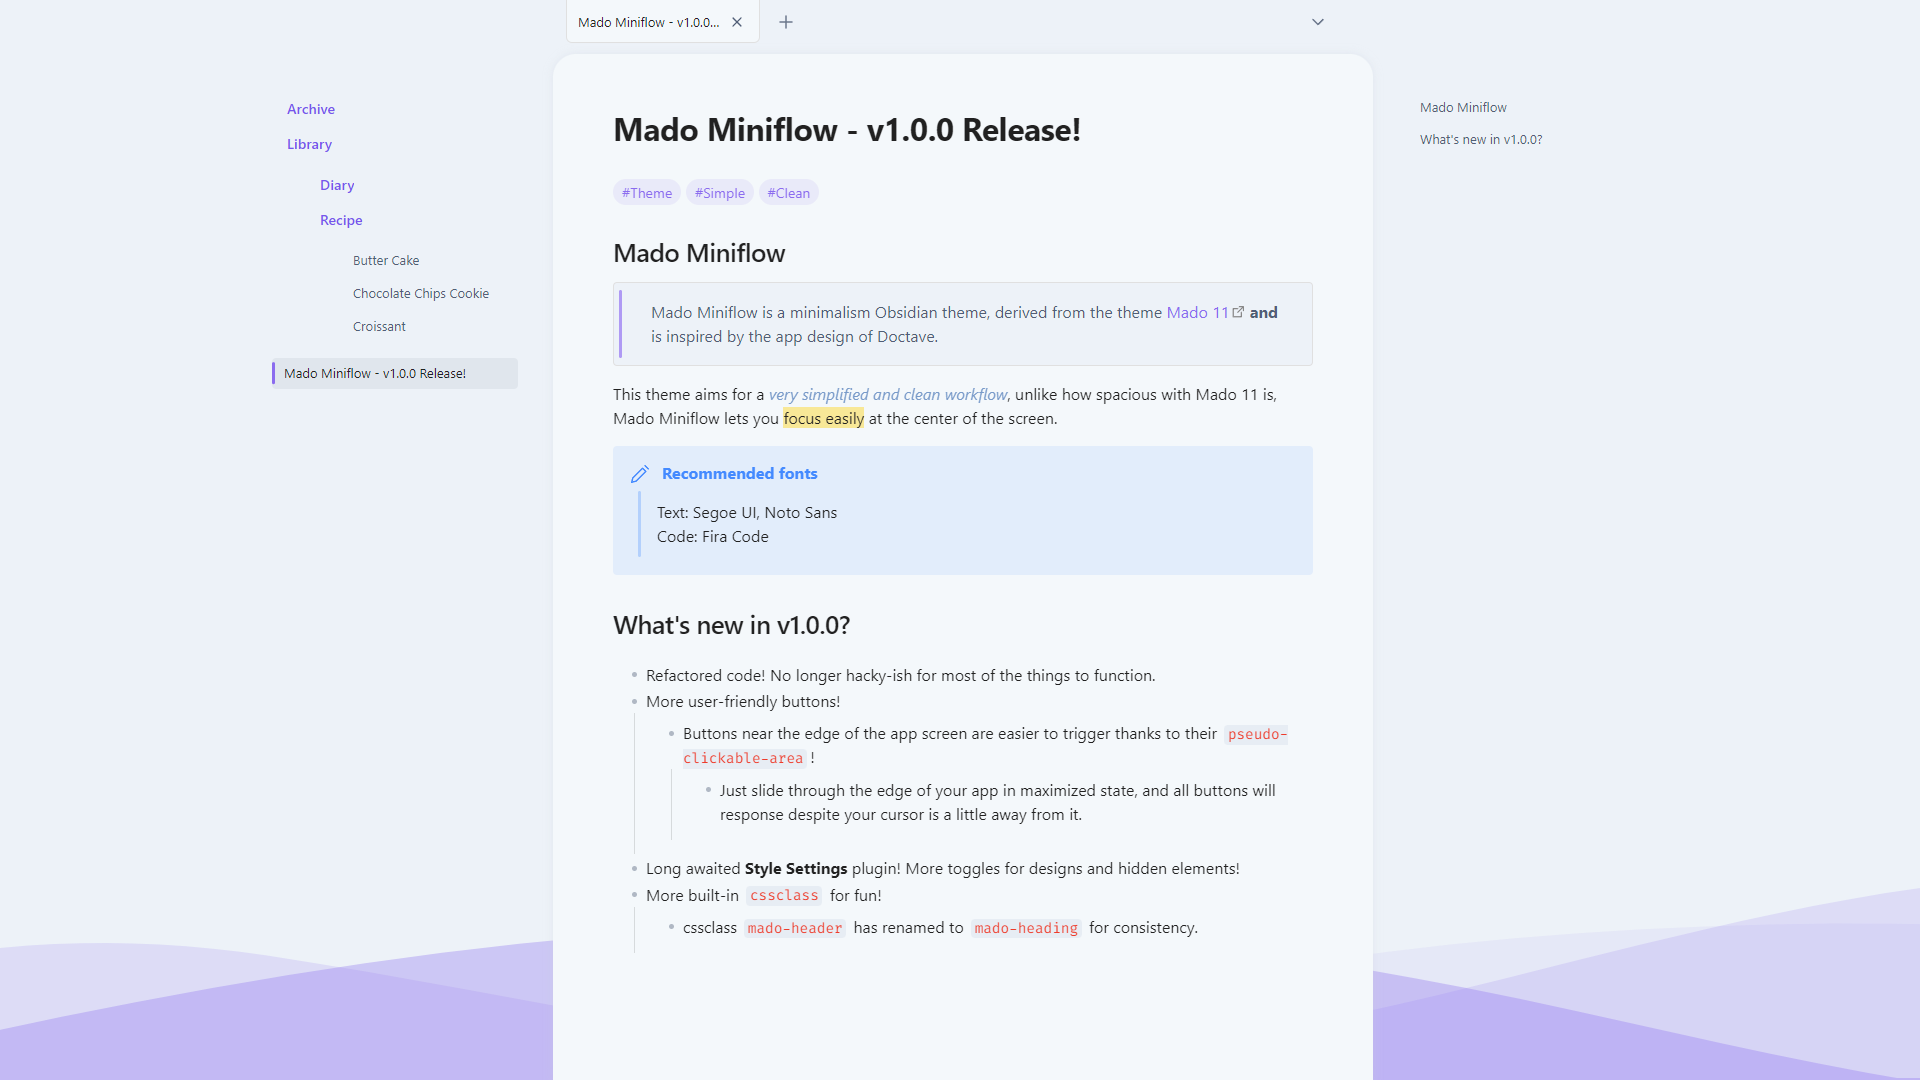
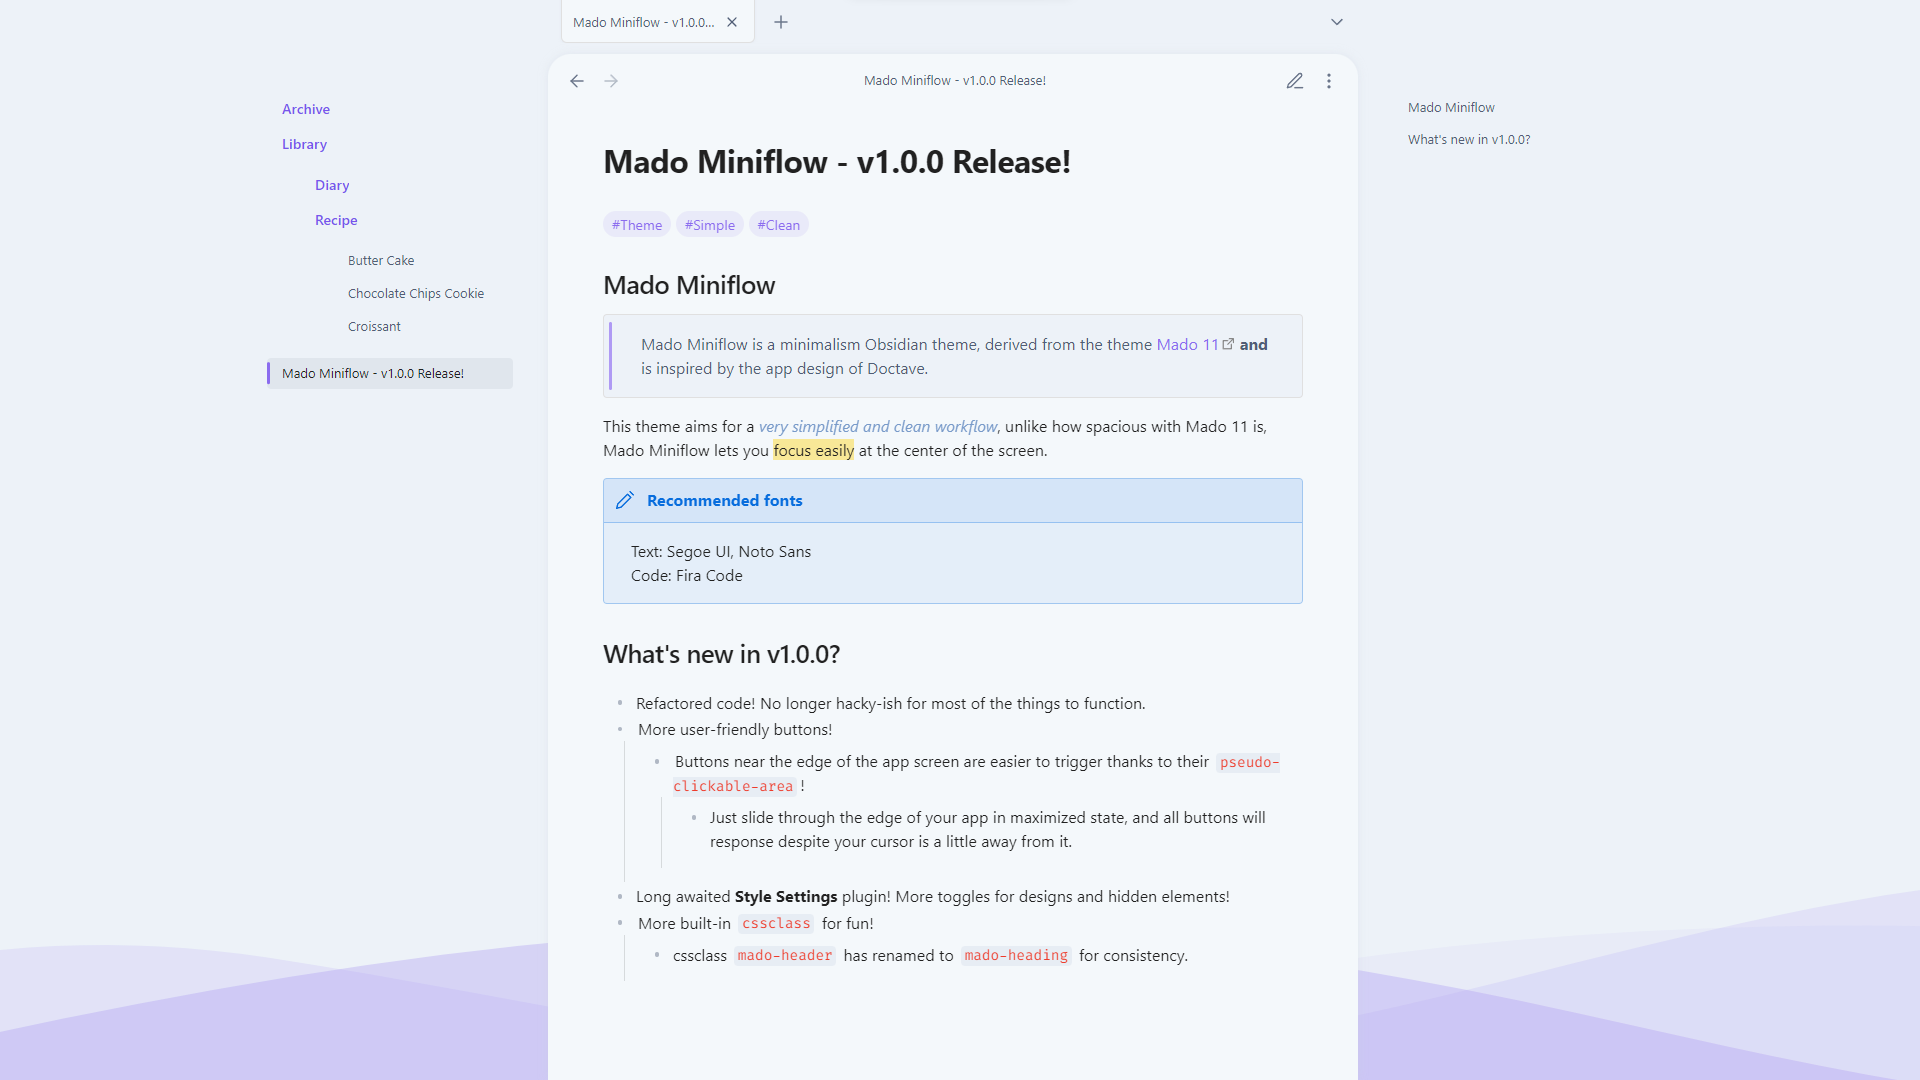
v1.2.0 callout redesign

diff --git a/theme.css b/theme.css
@@ -32,8 +32,9 @@ body{
 	--icon-m:20px;
 	--icon-l:20px;	
 	--divider-width:4px;
-	--callout-padding:17px 17px;
-	--callout-content-padding:0 12px 0 27px;
+	--callout-padding:0px;
+	--callout-title-padding:11px;
+	--callout-content-padding:0 11px 0 27px;
 	
 	--embed-padding:13px 23px;
 	--list-indent:37px;
@@ -1148,8 +1149,12 @@ input[type=checkbox]:checked:after{
 
 
 /* Markdown Listings */
-ul,ol{
+ul, ol{
 	padding:7px 0 13px;
+	margin-top:7px;
+}
+ul ul, ol ol{
+	margin-top:0;
 }
 
 /* Only append indent if it's from a list */
@@ -1275,26 +1280,32 @@ ul > li.task-list-item.is-checked *,
 
 
 /* Markdown Callout */
-.callout:not(.is-collapsed){
-	padding-bottom:11px;
+
+.callout{
+	border:1px solid rgba(var(--callout-color), 0.3);
+    background-color: rgba(var(--callout-color), 0.07);
 }
 .callout-title{
 	gap:var(--size-4-3);
+    align-items:center;
+    background-color:rgba(var(--callout-color), 0.07);
+	border-bottom:1px solid transparent;
+	transition:border 0.3s;
 }
-.callout-content{
-	position:relative;
-}
-.callout-content:before{
-	content:"";
-	position:absolute;
-	left:8px;
-	top:7px;
-	width:3px;
-	height:calc(100% - 14px);
-	background:rgba(var(--callout-color),0.3);
-	border-radius:var(--button-radius);
+.callout-icon,
+.callout-fold{
+	margin:0;
+	align-self:center;
 }
 
+/* only apply border if callout is not collapsed */
+.callout:not(.is-collapsed)>.callout-title:has(+.callout-content){
+	border-bottom:1px solid rgba(var(--callout-color), 0.3);
+}
+
+.markdown-source-view.mod-cm6 .callout .callout{
+	margin:1em 0;
+}
 
 
 
@@ -1326,6 +1337,29 @@ ul > li.task-list-item.is-checked *,
 	border-radius:var(--button-radius);
 	transition:background 0.1s;
 }
+.mado-heading .markdown-preview-section>div.mod-header>*{
+	padding:23px 23px 0;
+	border:none;
+}
+.mado-heading .markdown-preview-section>div:not(.is-collapsed)>h1{
+	border-bottom-left-radius:0;
+	border-bottom-right-radius:0;
+	border-bottom:none;
+}
+.mado-heading .markdown-preview-section>div:not(.is-collapsed)>h1:before{
+    border-radius:4px 0 0 0;
+}
+.mado-heading .markdown-preview-section>div:has(+div>*:not(h1))>*:not(h1){
+	border-radius:0;
+	border-bottom:none;
+}
+.mado-heading .markdown-preview-section>div:has(+div>h1)>*:not(h1),
+.mado-heading .markdown-preview-section>div:has(+div.mod-footer)>*:not(h1){
+	border-radius:0;
+	border-bottom-left-radius:var(--button-radius);
+	border-bottom-right-radius:var(--button-radius);
+	border-bottom:var(--border);
+}
 .mado-heading :is(h1,h2,h3,h4,h5,h6){
 	background:var(--background-fourth);
 }
@@ -1339,6 +1373,13 @@ ul > li.task-list-item.is-checked *,
 	--h4-size: 1.25em;
 	--h5-size: 1.12em;
 	--h6-size: 1.12em;
+}
+
+.mado-heading .markdown-preview-section>div:has(+div>p)>p{
+	padding-bottom:0;
+}
+.mado-heading .markdown-preview-section>div:has(>p)+div>p{
+	border-top:none;
 }
 
 
@@ -1421,22 +1462,21 @@ ul > li.task-list-item.is-checked *,
 .mado-heading .markdown-preview-section>div>hr{
 	display:none;
 }
+.mado-heading .markdown-preview-section>div>pre{
+	padding-block:23px;
+}
 .mado-heading .markdown-preview-section>div>blockquote{
 	padding-block:23px;
 }
-.mado-heading .markdown-preview-section>div>blockquote:before,
-.mado-heading .markdown-preview-section>div>.callout .callout-content:before{
-	background:none;
-}
-.mado-heading .markdown-preview-section>div>.callout:not(.is-collapsed){
-	padding-bottom:7px;
+.mado-heading .markdown-preview-section>div>.callout{
+	padding:var(--callout-padding);
+	border:1px solid rgba(var(--callout-color), 0.3);
 }
 .mado-heading .markdown-preview-section>div>.callout .callout-title{
-	margin-inline:-37px;
+	padding:17px 23px;
 }
 .mado-heading .markdown-preview-section>div>.callout .callout-content{
-	margin-inline:-37px;
-	padding-inline:33px;
+	padding:3px 53px;
 }
 .mado-heading .markdown-preview-section>div>blockquote>:is(ul,ol){
 	padding:0;
@@ -1640,6 +1680,7 @@ ul > li.task-list-item.is-checked *,
 
 div.callout[data-callout="mado-list2table"]{
 	background:none;
+	border:none;
 }
 div.callout[data-callout="mado-list2table"] .callout-title,
 div.callout[data-callout="mado-list2table"] .callout-content:before,
@@ -1958,6 +1999,7 @@ div.callout[data-callout*="mado-panel"]{
 	background-color:initial;
 	mix-blend-mode:normal;
 	padding:0;
+	border:none;
 }
 div.callout[data-callout*="mado-panel"] .callout-content{
 	padding:0;
@@ -2010,10 +2052,13 @@ div.callout[data-callout*="mado-panel"] ul li{
 [class*="mado-panel"] .markdown-preview-sizer>div ul li .list-bullet{
 	display:none;
 }
-[class*="mado-panel"] .markdown-preview-sizer>div ul li:hover:not(:has(li:hover)),
-div.callout[data-callout*="mado-panel"] ul li:hover:not(:has(li:hover)){
-	/* background:var(--background-fifth); */
-	background:var(--background-primary);
+/* Hover-Child-Only doesn't actually look too comfortable, disabling it for the time being */
+/* [class*="mado-panel"] .markdown-preview-sizer>div ul li:hover:not(:has(li:hover)), */
+/* div.callout[data-callout*="mado-panel"] ul li:hover:not(:has(li:hover)){ */
+[class*="mado-panel"] .markdown-preview-sizer>div ul li:hover,
+div.callout[data-callout*="mado-panel"] ul li:hover{
+	background:var(--background-fifth);
+	/* background:var(--background-primary); */
 	transform:translateY(-3px);
 	box-shadow:var(--panel-shadow-hover);
 }
@@ -2072,10 +2117,11 @@ div.callout[data-callout*="mado-panel-list"] ul{
 div.callout[data-callout*="mado-panel-list"] ul li{
 	display:inline-block;
 	padding-block:8px;
-	height:unset;
+	min-height:unset;
 	text-align:left;
 	width:100%;
 	overflow:visible;
+	min-height:auto;
 }
 [class*="mado-panel-list"][class*="mado-panel-link"] .markdown-preview-sizer>div ul li a:not(.tag),
 div.callout[data-callout*="mado-panel-list"][data-callout*="-link"] ul li a:not(.tag){
